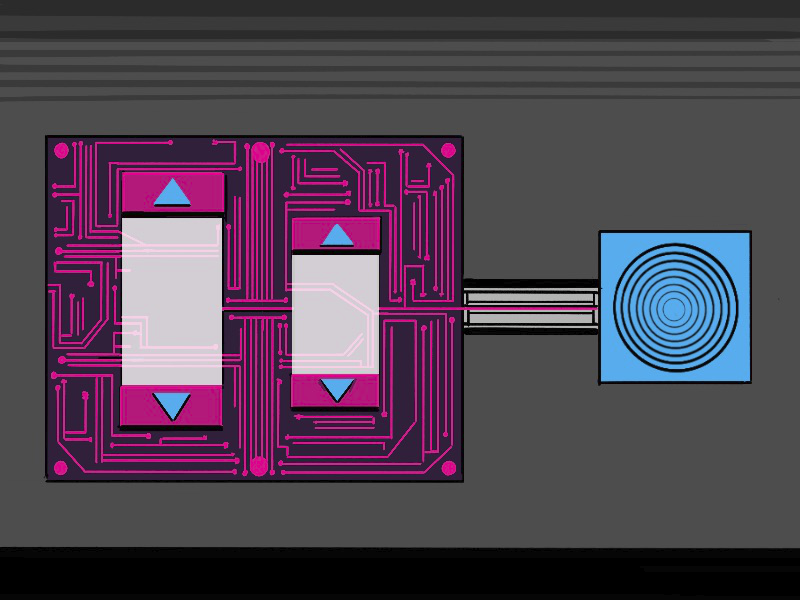
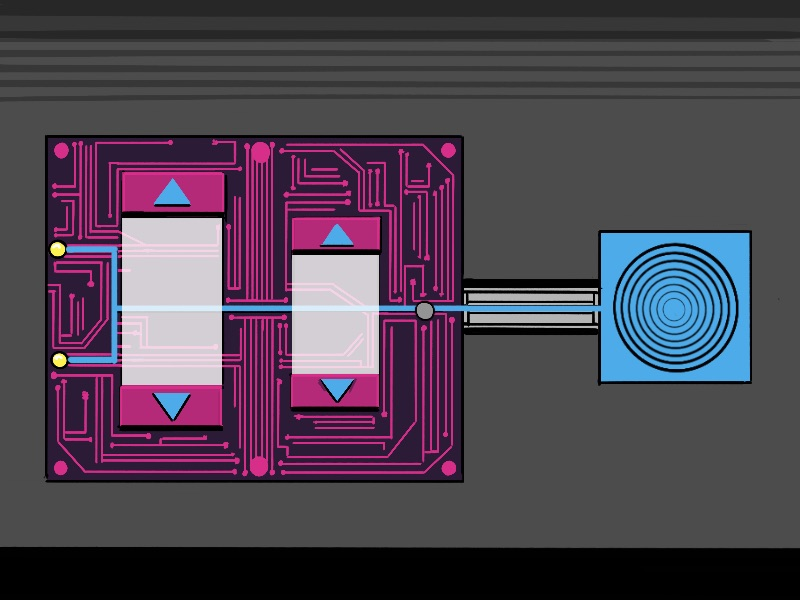
electric circuit puzzle and sound effect for change location fixed

diff --git a/Assets/Scripts/EscapeRoom/EscapeRoom0/Logic/ElectricCircuitPuzzle.cs b/Assets/Scripts/EscapeRoom/EscapeRoom0/Logic/ElectricCircuitPuzzle.cs
@@ -6,7 +6,6 @@ using TMPro;
 public class ElectricCircuitPuzzle : Puzzle
 {
     private TMP_InputField inputField;
-    private Image finalLight;
     private Image firstSlotImage;
     private Image secondSlotImage;
     private Image currentSlotImage;
@@ -35,7 +34,6 @@ public class ElectricCircuitPuzzle : Puzzle
         guess = new char[] { '7', '7' };
 
         inputField = GameObject.Find("InputField").gameObject.GetComponent<TMP_InputField>();
-        finalLight = GameObject.Find("FinalLight").gameObject.GetComponent<Image>();
         firstSlotImage = GameObject.Find("FirstSlot").gameObject.GetComponent<Image>();
         secondSlotImage = GameObject.Find("SecondSlot").gameObject.GetComponent<Image>();
         firstSlot = GameObject.Find("FirstSlot").gameObject.GetComponent<Button>();
@@ -43,7 +41,6 @@ public class ElectricCircuitPuzzle : Puzzle
 
         inputField.gameObject.SetActive(false);
         inputField.onSubmit.AddListener(OnTextEntered);
-        finalLight.enabled = false;
     }
 
     public void OnFirstSlotClicked()
@@ -115,8 +112,6 @@ public class ElectricCircuitPuzzle : Puzzle
         bool finalResult = secondGate(secondGateCode.Value, firstResult);
 
         print($"First gate {firstResult}, Final result {finalResult}");
-
-        finalLight.enabled = finalResult;
     }
 
     private bool firstGate(char gate, bool a, bool b)
@@ -140,6 +135,8 @@ public class ElectricCircuitPuzzle : Puzzle
 
     protected override void SolvedPuzzleSpecific()
     {
+        gameObject.GetComponent<Image>().sprite = GameProgression.GameProgressionInstance.SpriteCache.sprites["ElectricCircuitPuzzleSecondary"];
+
         GameProgression.GameProgressionInstance.SetFlag("firstInteractionElectricCircuitPuzzle", true);
         GameProgression.GameProgressionInstance.SetFlag("solvedElectricCircuitPuzzle", true);
         gameObject.GetComponent<ManualInteraction>().ItemInteraction();

diff --git a/Assets/Scripts/EscapeRoom/Shared/Logic/Locations.cs b/Assets/Scripts/EscapeRoom/Shared/Logic/Locations.cs
@@ -188,7 +188,7 @@ public class Locations : MonoBehaviour
 
     private void ShowLocation(GameObject location, int newLocationIndex, LocationData currentLocationData)
     {
-        GameProgression.GameProgressionInstance.PlaySFX(4);
+        GameProgression.GameProgressionInstance.PlaySFX(3);
 
         currentLocationData.locationIndex = currentLocationIndex;
         currentLocationIndex = newLocationIndex;
